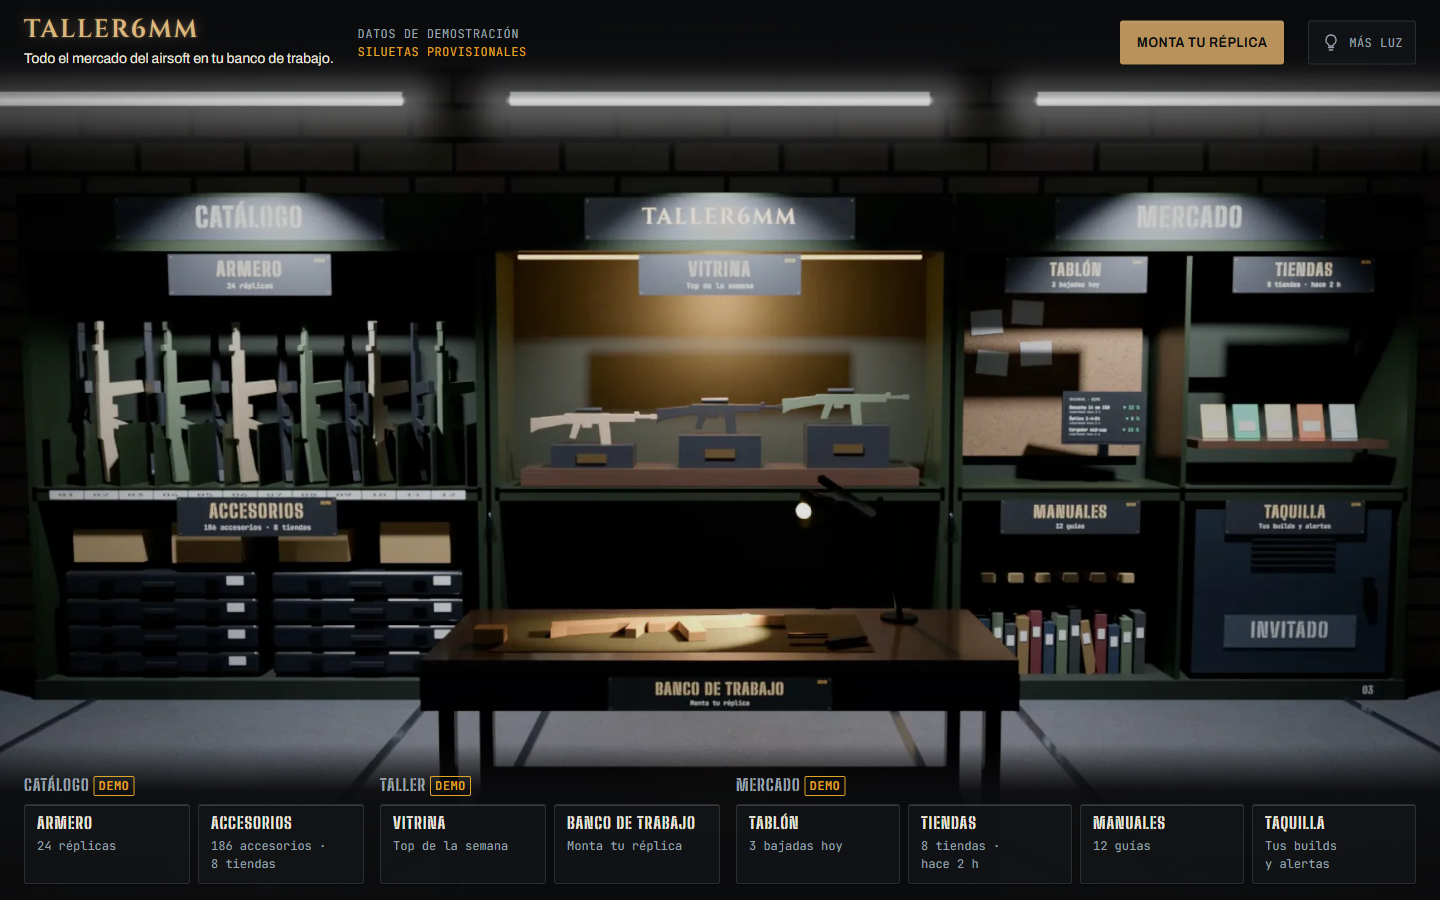
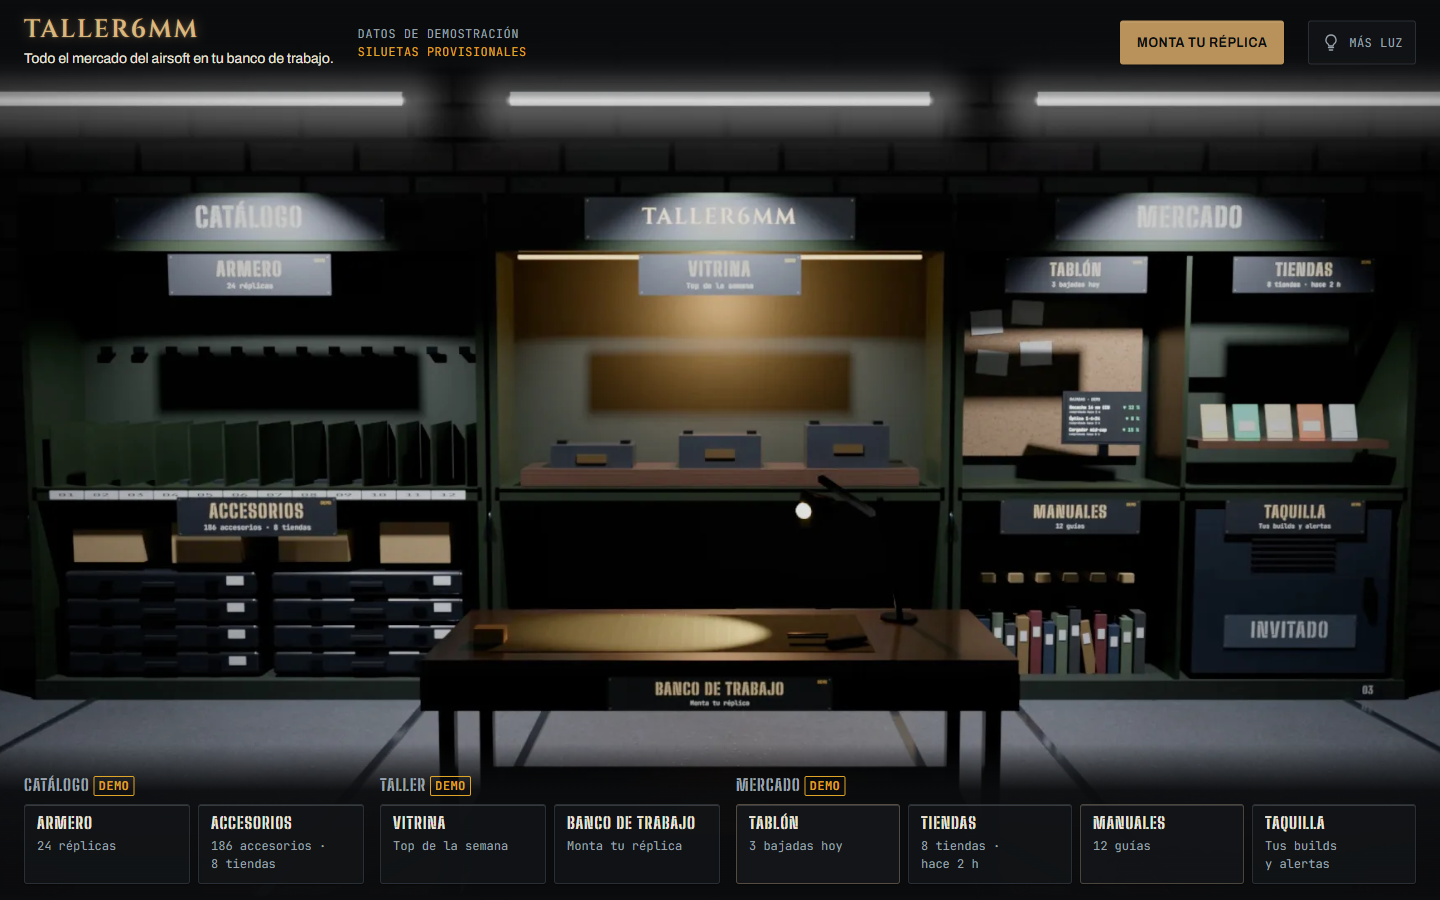
feat(armeria): S1.1 poster without replica silhouettes, sockets, bake tooling and compositor
Room rewritten without replica silhouettes (empty slots, hooks, pedestals), replica
sockets as anchor points, 3D horno + Cycles bake scripts, WebGL2 compositor that composes
the poster (penumbra and more light), three/R3F/vite deps.

Claude-Session: https://claude.ai/code/session_013rqQGG25HwpD8NFVsP1mPw

diff --git a/apps/web/src/components/armeria/nivel-b/compositor.ts b/apps/web/src/components/armeria/nivel-b/compositor.ts
@@ -5,7 +5,7 @@
 // EscenaB (la escena interactiva) y el script del póster, que componen exactamente lo mismo.
 import { ANCHO_MINIMO_VISIBLE, ASPECTO_POSTER, ENCUADRE_POSTER, segmentoTubo } from '../camara.ts';
 import { compilar, GLSL_COMUN } from '../glsl.ts';
-import { PASES_DATOS, PASES_LUZ, type Pase, PROFUNDIDAD } from '../pases.ts';
+import { GANANCIA_BASE, PASES_DATOS, PASES_LUZ, type Pase, PROFUNDIDAD } from '../pases.ts';
 import { ESTANTERIAS, ORDEN_ESTANTERIAS } from '../zonas.ts';
 
 export type V2 = readonly [number, number];
@@ -53,6 +53,7 @@ uniform vec4 uSegmentos[3];
 
 const float CERCA = ${PROFUNDIDAD.cerca.toFixed(4)};
 const float LEJOS = ${PROFUNDIDAD.lejos.toFixed(4)};
+const float GANANCIA_BASE = ${GANANCIA_BASE.toFixed(4)};
 ${GLSL_COMUN}
 vec3 posVista(vec2 uv, float d) {
   vec2 ndc = vec2(uv.x * 2.0 - 1.0, 1.0 - uv.y * 2.0);
@@ -67,7 +68,7 @@ void main() {
   vec3 tC = texture(uTuboC, uv).rgb;
   vec3 tD = texture(uTuboD, uv).rgb;
   vec3 rot = texture(uRotulos, uv).rgb;
-  vec3 c = texture(uBase, uv).rgb * uAmbiente
+  vec3 c = texture(uBase, uv).rgb * uAmbiente * GANANCIA_BASE
     + (tI * uTubos.x + tC * uTubos.y + tD * uTubos.z) * uTinte
     + texture(uCalidas, uv).rgb * uCalidasN
     + rot * uRotulosN;

diff --git a/apps/web/src/components/armeria/armeria.test.ts b/apps/web/src/components/armeria/armeria.test.ts
@@ -94,11 +94,13 @@ describe('sockets de réplica (sin siluetas de relleno)', () => {
     }
   });
 
-  it('las ranuras del armero no se solapan entre sí', () => {
+  it('las ranuras del armero van en orden y apenas se rozan (la perspectiva ensancha un poco su caja)', () => {
     const rects = socketsDe('replicas').map((s) => rectCaja(s.caja.centro, s.caja.tamano));
     rects.forEach((r, i) => {
       const siguiente = rects[i + 1];
-      if (siguiente) expect(r.x + r.ancho).toBeLessThanOrEqual(siguiente.x + 1e-9);
+      if (!siguiente) return;
+      expect(siguiente.x + siguiente.ancho / 2).toBeGreaterThan(r.x + r.ancho / 2);
+      expect(r.x + r.ancho - siguiente.x).toBeLessThan(0.25 * r.ancho);
     });
   });
 

diff --git a/apps/web/src/components/armeria/pases.ts b/apps/web/src/components/armeria/pases.ts
@@ -3,6 +3,11 @@
 
 /** Los pases de luz se guardan con esta exposición: el B los divide para recuperar hasta 2,0 lineal. */
 export const EXPOSICION_HORNO = 0.5;
+/**
+ * El pase «base» (relleno ambiente) se hornea con el ambiente de Blender a 0,04 y la sala se ve como con 0,2, el
+ * valor con el que Javi aprobó el aspecto (11-11-2026): la luz es lineal, así que basta multiplicar el pase por esto.
+ */
+export const GANANCIA_BASE = 5;
 /** Profundidad codificada en 8 bits entre estas distancias (m) a la cámara. */
 export const PROFUNDIDAD = { cerca: 1.5, lejos: 12 } as const;
 /** Resolución de los pases (16:9): 2560 × 1440, la que se hornea con Cycles; el póster sale a 1920 y 960. */

diff --git a/apps/web/src/components/armeria/Interfaz.tsx b/apps/web/src/components/armeria/Interfaz.tsx
@@ -109,7 +109,7 @@ export function InterfazArmeria({ estado, acciones, children, escenaActiva = fal
           {/* Hasta tener réplicas modeladas a escala real (frente de fidelidad), las siluetas son de atrezo. */}
           <p className="armeria__nota">
             Datos de demostración
-            <span className="armeria__provisional">Siluetas provisionales</span>
+            <span className="armeria__provisional">Réplicas reales: próximamente</span>
           </p>
           {/* Acción principal: el banco (configurador) es el protagonista de la web. */}
           <Boton variante="laton" className="armeria__accion" onClick={() => abrir('banco')}>

diff --git a/apps/web/src/components/armeria/Armeria.ssr.test.tsx b/apps/web/src/components/armeria/Armeria.ssr.test.tsx
@@ -48,8 +48,8 @@ describe('La Armería en el HTML inicial', () => {
     expect(html).toContain('data-luz="penumbra"');
   });
 
-  it('avisa de que los datos y las siluetas son provisionales', () => {
-    expect(html).toContain('Siluetas provisionales');
+  it('avisa de que los datos son de demostración y de que aún no hay réplicas reales', () => {
+    expect(html).toContain('Réplicas reales: próximamente');
     expect(html).toContain('Datos de demostración');
     expect(html.match(/\(dato de ejemplo\)/g)).toHaveLength(ZONAS.length);
   });

diff --git a/apps/web/src/components/armeria/armeria.css b/apps/web/src/components/armeria/armeria.css
@@ -151,7 +151,7 @@
   text-transform: uppercase;
 }
 
-/* Las siluetas de réplicas son de atrezo hasta que el frente de fidelidad entregue modelos a escala. */
+/* Sin réplicas todavía: el aviso se retira cuando el frente de fidelidad entregue modelos a escala. */
 .armeria__provisional {
   display: block;
   color: var(--estado-aviso);
